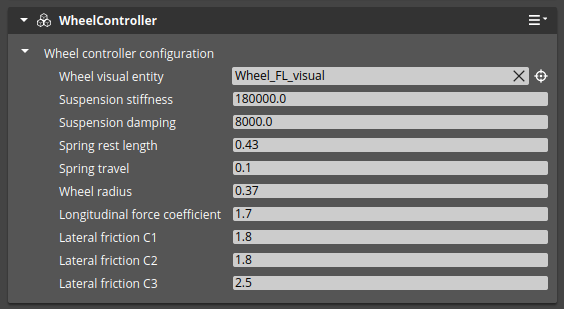
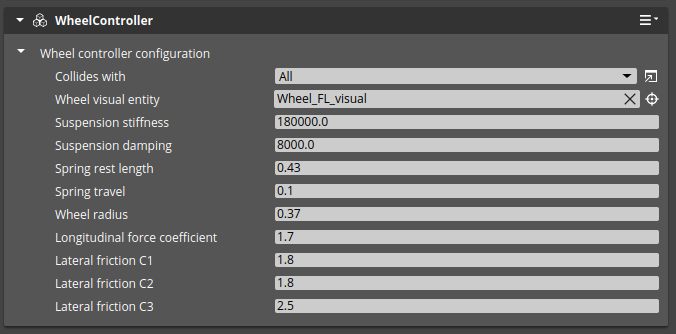
Collision layers selection (#7)
* Add collision group selection for raycast
* Add info about collision groups in the README.md

diff --git a/Code/Source/VehicleDynamics/VehicleConfiguration.cpp b/Code/Source/VehicleDynamics/VehicleConfiguration.cpp
@@ -19,6 +19,7 @@ namespace VehicleDynamics
         {
             serializeContext->Class<VehicleConfiguration>()
                 ->Version(0)
+                ->Field("collisionGroupName", &VehicleConfiguration::m_collisionGroupName)
                 ->Field("wheelBase", &VehicleConfiguration::m_wheelbase)
                 ->Field("rearTrack", &VehicleConfiguration::m_track)
                 ->Field("turnRadius", &VehicleConfiguration::m_turnRadius)
@@ -35,6 +36,12 @@ namespace VehicleDynamics
             if (auto editContext = serializeContext->GetEditContext())
             {
                 editContext->Class<VehicleConfiguration>("VehicleControl", "VehicleControl")
+                    ->DataElement(
+                        AZ::Edit::UIHandlers::ComboBox,
+                        &VehicleConfiguration::m_collisionGroupName,
+                        "Collides with",
+                        "Collision group with which the wheel collides")
+                    ->Attribute(AZ::Edit::Attributes::StringList, &VehicleConfiguration::GetGroupNameList)
                     ->DataElement(
                         AZ::Edit::UIHandlers::Default,
                         &VehicleConfiguration::m_wheelbase,
@@ -92,6 +99,22 @@ namespace VehicleDynamics
                         "Steering wheel entity");
             }
         }
+    }
+
+    AZStd::vector<AZStd::string> VehicleConfiguration::GetGroupNameList()
+    {
+        const AzPhysics::CollisionConfiguration& configuration =
+            AZ::Interface<AzPhysics::SystemInterface>::Get()->GetConfiguration()->m_collisionConfig;
+        const AZStd::vector<AzPhysics::CollisionGroups::Preset>& collisionGroupPresets = configuration.m_collisionGroups.GetPresets();
+
+        AZStd::vector<AZStd::string> groupNames;
+        groupNames.reserve(collisionGroupPresets.size());
+
+        for (const auto& preset : collisionGroupPresets)
+        {
+            groupNames.push_back(preset.m_name);
+        }
+        return groupNames;
     }
 
 } // namespace VehicleDynamics

diff --git a/Code/Source/VehicleDynamics/WheelController.cpp b/Code/Source/VehicleDynamics/WheelController.cpp
@@ -9,6 +9,8 @@
 #include "WheelController.h"
 
 #include <AzCore/Math/MathUtils.h>
+#include <AzFramework/Physics/Collision/CollisionGroups.h>
+#include <AzFramework/Physics/CollisionBus.h>
 #include <AzFramework/Physics/PhysicsScene.h>
 #include <AzFramework/Physics/PhysicsSystem.h>
 #include <AzFramework/Physics/RigidBodyBus.h>
@@ -43,6 +45,11 @@ namespace VehicleDynamics
     void WheelController::SetVehicleEntity(const AZ::EntityId& vehicleEntityId)
     {
         m_vehicleEntityId = vehicleEntityId;
+    }
+
+    void WheelController::SetCollisionGroup(const AZStd::string& collisionGroupName)
+    {
+        m_configuration.m_collisionGroupName = collisionGroupName;
     }
 
     void WheelController::Activate()
@@ -100,7 +107,12 @@ namespace VehicleDynamics
         AZ::TransformBus::EventResult(m_wheelWorldTM, GetEntityId(), &AZ::TransformBus::Events::GetWorldTM);
         const auto downDir = m_wheelWorldTM.GetRotation().TransformVector(AZ::Vector3::CreateAxisZ(-1.0f));
 
+        AzPhysics::CollisionGroup collisionGroup;
+        Physics::CollisionRequestBus::BroadcastResult(
+            collisionGroup, &Physics::CollisionRequestBus::Events::GetCollisionGroupByName, m_configuration.m_collisionGroupName);
+
         AzPhysics::RayCastRequest request = AzPhysics::RayCastRequest();
+        request.m_collisionGroup = collisionGroup;
         request.m_start = m_wheelWorldTM.GetTranslation();
         request.m_direction = downDir;
         request.m_distance = m_springMaxLength + m_configuration.m_wheelRadius;

diff --git a/Code/Source/VehicleDynamics/WheelConfiguration.h b/Code/Source/VehicleDynamics/WheelConfiguration.h
@@ -12,7 +12,10 @@
 
 #include <AzCore/Component/EntityId.h>
 #include <AzCore/RTTI/RTTI.h>
+#include <AzCore/Serialization/EditContext.h>
 #include <AzCore/Serialization/SerializeContext.h>
+#include <AzFramework/Physics/Collision/CollisionGroups.h>
+#include <AzFramework/Physics/PhysicsSystem.h>
 
 namespace VehicleDynamics
 {
@@ -35,5 +38,8 @@ namespace VehicleDynamics
         float m_lateralFrictionC2{ 1.7f };
         float m_lateralFrictionC3{ 2.0f };
         float m_longitudinalForceCoef{ 1.0f };
+
+        AZStd::string m_collisionGroupName = "All"; //!< Name of the collision group with which the wheel collides. Kept as a string due to
+                                                    //!< different collision groups id in different projects. This value is not serialized.
     };
 } // namespace VehicleDynamics

diff --git a/Code/Source/VehicleDynamics/VehicleConfiguration.h b/Code/Source/VehicleDynamics/VehicleConfiguration.h
@@ -23,6 +23,9 @@ namespace VehicleDynamics
         AZ_TYPE_INFO(VehicleConfiguration, VehicleConfigurationTypeId);
         static void Reflect(AZ::ReflectContext* context);
 
+        AZStd::string m_collisionGroupName = "All"; //!< Name of the collision group with which the wheel collides. Kept as a string due to
+                                                    //!< different collision groups id in different projects.
+
         float m_wheelbase{ 2.7f }; // [m]
         float m_track{ 1.5f }; // [m]
         float m_turnRadius{ 10.0f }; // [m]
@@ -39,5 +42,8 @@ namespace VehicleDynamics
         AZStd::vector<AZ::EntityId> m_rearAxleWheelIds;
 
         AZ::EntityId m_steeringWheelId;
+
+    private:
+        AZStd::vector<AZStd::string> GetGroupNameList();
     };
 } // namespace VehicleDynamics

diff --git a/Code/Source/VehicleDynamics/VehicleController.cpp b/Code/Source/VehicleDynamics/VehicleController.cpp
@@ -138,6 +138,7 @@ namespace VehicleDynamics
             if (wheel)
             {
                 wheel->SetVehicleEntity(GetEntityId());
+                wheel->SetCollisionGroup(m_configuration.m_collisionGroupName);
                 m_frontAxleWheelControllers.push_back(wheel);
             }
         }
@@ -150,6 +151,7 @@ namespace VehicleDynamics
             if (wheel)
             {
                 wheel->SetVehicleEntity(GetEntityId());
+                wheel->SetCollisionGroup(m_configuration.m_collisionGroupName);
                 m_rearAxleWheelControllers.push_back(wheel);
             }
         }

diff --git a/Code/Source/VehicleDynamics/WheelController.h b/Code/Source/VehicleDynamics/WheelController.h
@@ -42,6 +42,7 @@ namespace VehicleDynamics
         void SetDriveForce(const float force);
         void SetSteeringAngle(const float steeringAngle);
         void SetVehicleEntity(const AZ::EntityId& vehicleEntityId);
+        void SetCollisionGroup(const AZStd::string& groupName);
 
     protected:
         //////////////////////////////////////////////////////////////////////////

diff --git a/Code/Source/VehicleDynamics/WheelConfiguration.cpp b/Code/Source/VehicleDynamics/WheelConfiguration.cpp
@@ -81,5 +81,4 @@ namespace VehicleDynamics
             }
         }
     }
-
 } // namespace VehicleDynamics

diff --git a/Docs/Tutorial.md b/Docs/Tutorial.md
@@ -100,3 +100,16 @@ The component should look similar to this:
 ### Step 6
 
 The model is ready. You can now test it in the game mode.
+
+
+### Optional - setting collision layers
+Each wheel can be configured with a specific collision group. This will change the definition of the ground on which the wheel drives. By default the `All` group is selected, meaning that the wheel will drive on all objects. This can be used to define surfaces on which the vehicle can drive. See the [O3DE Collision layers](https://docs.o3de.org/docs/user-guide/interactivity/physics/nvidia-physx/configuring/configuration-collision-layers/) and [O3DE Collision groups](https://docs.o3de.org/docs/user-guide/interactivity/physics/nvidia-physx/configuring/configuration-collision-groups/) documentation for more information.  
+
+Example (setting the wheels to drive only on the `Ground` layer):
+1. In O3DE select the `Tools` menu, then `PhysX Configuration`.
+2. Select the `Collision Filtering` tab, and in the `Layers` menu add a new layer named `Ground`.
+3. In the `Groups` menu add a new group named `Ground`.
+4. Uncheck the `Default` layer for the `Ground` group and keep the `Ground` layer checked.
+5. Select the ground entity and in the `PhysX Collider` component set the `Collision Layer` to `Ground`.
+6. In the `Wheel Controller` component set the `Collision Group` to `Ground` for all wheels.
+7. Now the vehicle will only drive on the ground entity.
